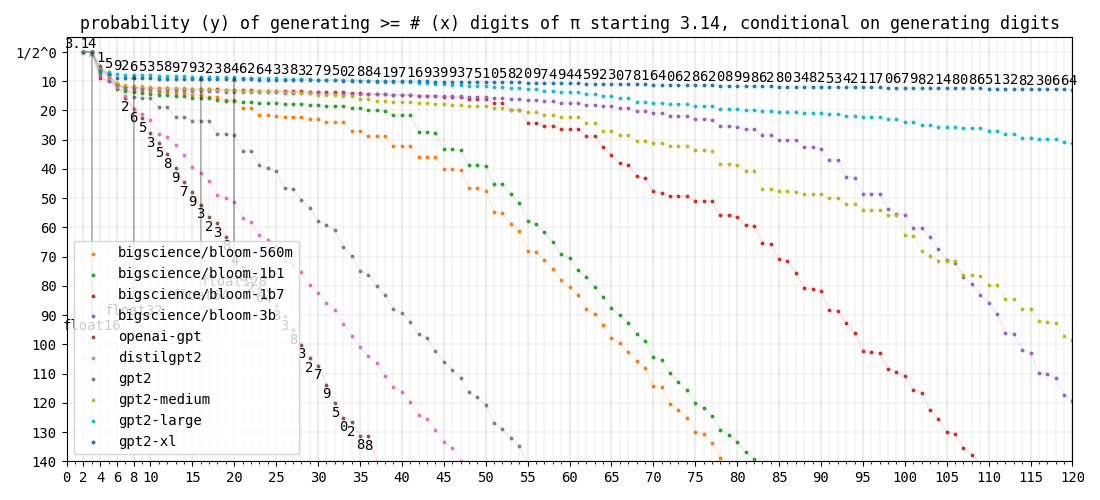
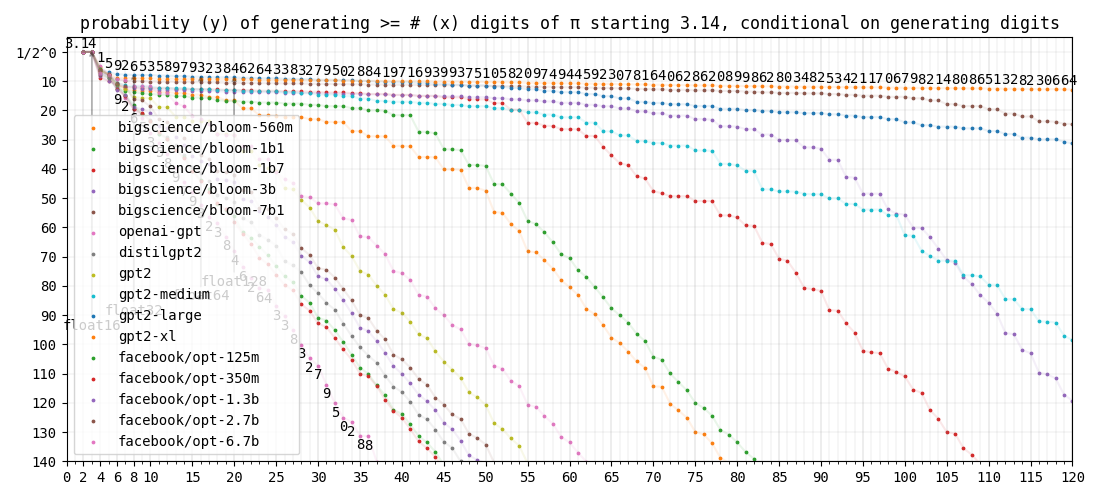
adding opt

diff --git a/pigen.html b/pigen.html
@@ -10,18 +10,52 @@
 </head>
 
 <body>
-  <a href="index.html"> << Piotr (Peter) Mardziel</a>
+  <a href="index.html"> &lt&lt; Piotr (Peter) Mardziel</a>
 
-  <h1>greedy pi</h1>
+  <h1>how many digits of pi does gpt know?</h1>
+
+  <ul>
+    <li>GPT and similar models take as input a piece of text and output a prediction of what comes
+      next. If they are given a the first part of pi, do they predict the next part? How big of a
+      piece of pi can they produce this way?</li>
+
+    <li>Given the text "3.14159", the model gpt2-xl, correctly picks the next 793 digits of pi
+      before making a mistake. gpt1, on the other hand, makes a mistake right away giving us 0
+      additional digits. Results for other gpt variants and sizes of bloom are shown below
+      under <a href="#greedypi">greedy pi</a>.</li>
+
+    <li>Models vary in size. Their pi-generating capability is shown as a function of their size
+      in <a href="#digitsperparameter">digits per parameter</a> and enumerated in the
+      table <a href="#stats">stats</a>. gpt2-xl is best with 546.7 digits of pi per G=2^30
+      parameters.</li>
+
+    <li>All results are conditioned on models generating digits and not other
+      characters/words/tokens.</li>
+
+    <li>If each model predicted digits according to their distributions instead of picking the most
+      probable digits, what would be the probability of generating at least n digits of pi? This is
+      shown in section <a href="#piprobability">pi probability</a>.</li>
+
+    <li>All models have some notion of pi until a point where pi probability degenerates at a fixed
+      exponential (a straight diagonal line in the graphs).</li>
+  </ul>
+
+  <h1><a name="greedypi"></a>greedy pi</h1>
+
     <img src="images/pigen-greedy.png"/>
 
-    <h2>digits per parameter</h2>
+    <ul>
+      <li>Lines labeled float{16,32,64,128} indicate number of decimal digits needed to fully
+      define pi for storage in respective floating point formats.
+    </ul>
+
+    <h2><a name="digitsperparameter"></a>digits per parameter</h2>
 
     <img src="images/pigen-stats.png"/>
 
-    <h2>stats</h2>
+    <h2><a name="stats"></a>stats</h2>
 
-    <table border="1">
+    <table border='1'>
       <tr>
 	<th>model</th>
 	<th># parameters (G=2^30)</th>
@@ -51,6 +85,12 @@
 	<td>2.80 G</td>
 	<td>85</td>
 	<td>30.4</td>
+      </tr>
+      <tr>
+	<td>bigscience/bloom-7b1</td>
+	<td>6.58 G</td>
+	<td>120</td>
+	<td>18.2</td>
       </tr>
       <tr>
 	<td>openai-gpt</td>
@@ -88,17 +128,51 @@
 	<td>793</td>
 	<td>546.7</td>
       </tr>
+      <tr>
+	<td>facebook/opt-125m</td>
+	<td>0.12 G</td>
+	<td>0</td>
+	<td>0.0</td>
+      </tr>
+      <tr>
+	<td>facebook/opt-350m</td>
+	<td>0.31 G</td>
+	<td>0</td>
+	<td>0.0</td>
+      </tr>
+      <tr>
+	<td>facebook/opt-1.3b</td>
+	<td>1.23 G</td>
+	<td>0</td>
+	<td>0.0</td>
+      </tr>
+      <tr>
+	<td>facebook/opt-2.7b</td>
+	<td>2.47 G</td>
+	<td>3</td>
+	<td>1.2</td>
+      </tr>
+      <tr>
+	<td>facebook/opt-6.7b</td>
+	<td>6.20 G</td>
+	<td>8</td>
+	<td>1.3</td>
+      </tr>
     </table>
 
-  <h1>pi probability</h1>
-  <h2>all</h2>
-  <img src="images/pigen-all.png"/>
+    <h1><a name="piprobability"></a>pi probability</h1>
 
-  <h2>gpt</h2>
-  <img src="images/pigen-gpt.png"/>
+    <h2>all</h2>
+    <img src="images/pigen-all.png"/>
 
-  <h2>bloom</h2>
-  <img src="images/pigen-bloom.png"/>
+    <h2>gpt</h2>
+    <img src="images/pigen-gpt.png"/>
+
+    <h2>bloom</h2>
+    <img src="images/pigen-bloom.png"/>
+
+    <h2>gpt</h2>
+    <img src="images/pigen-gpt.png"/>
 
 </body>
 </html>
